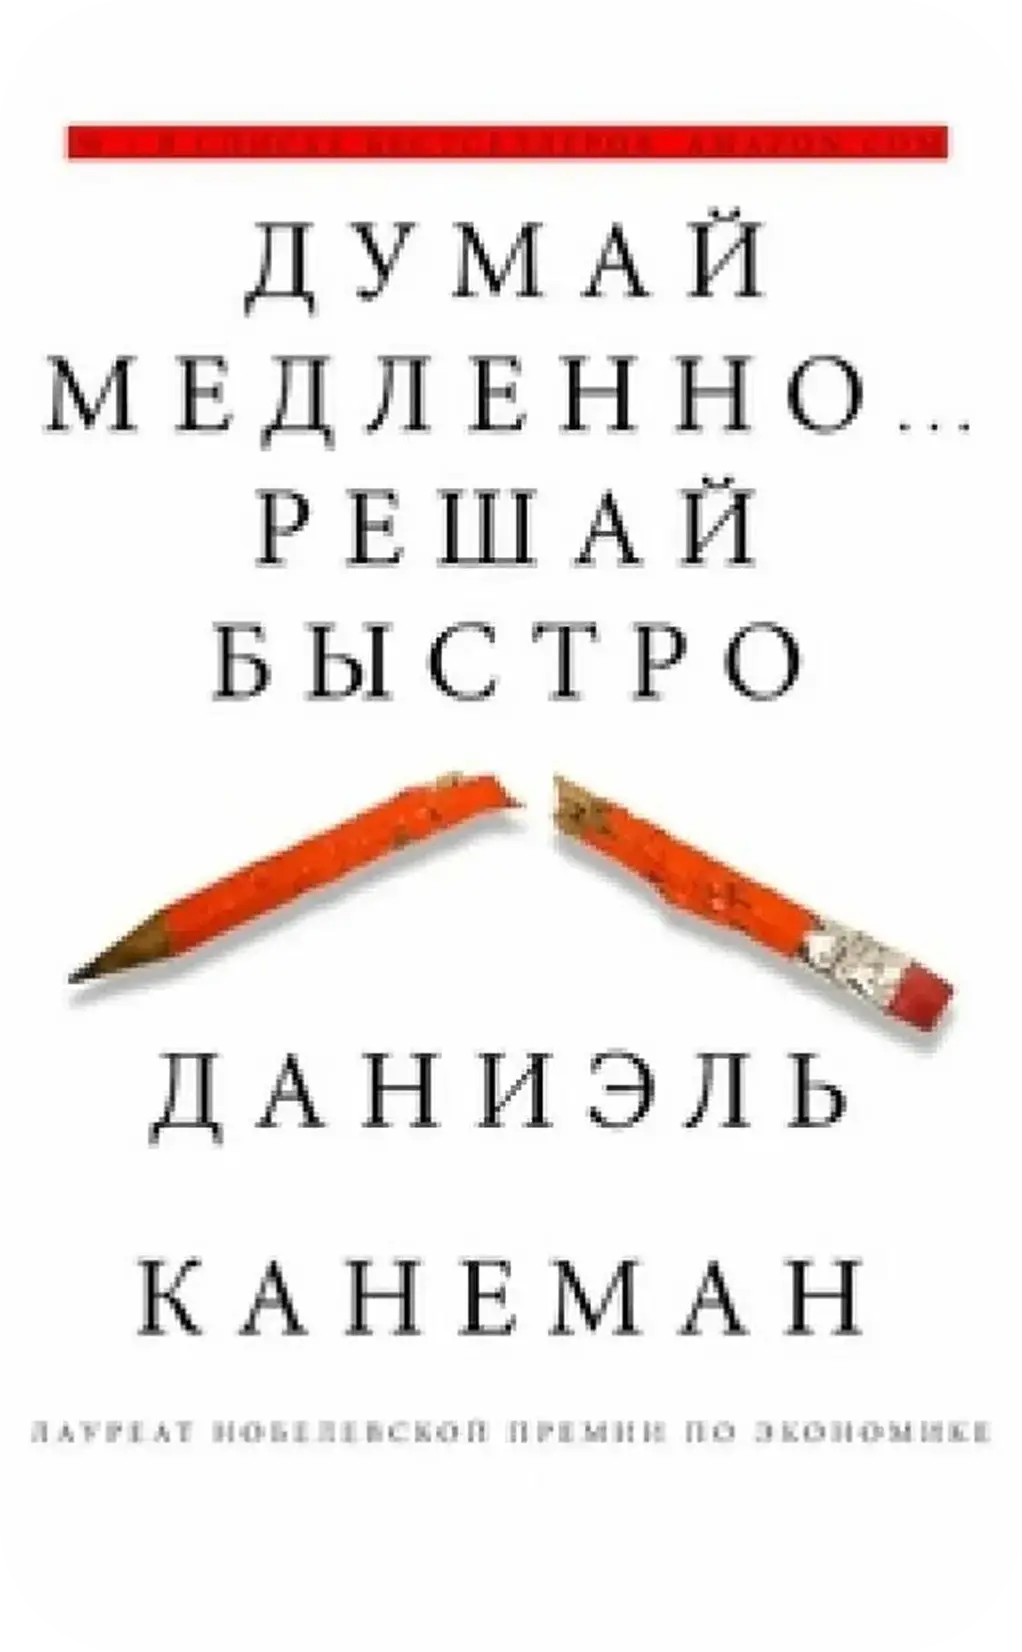
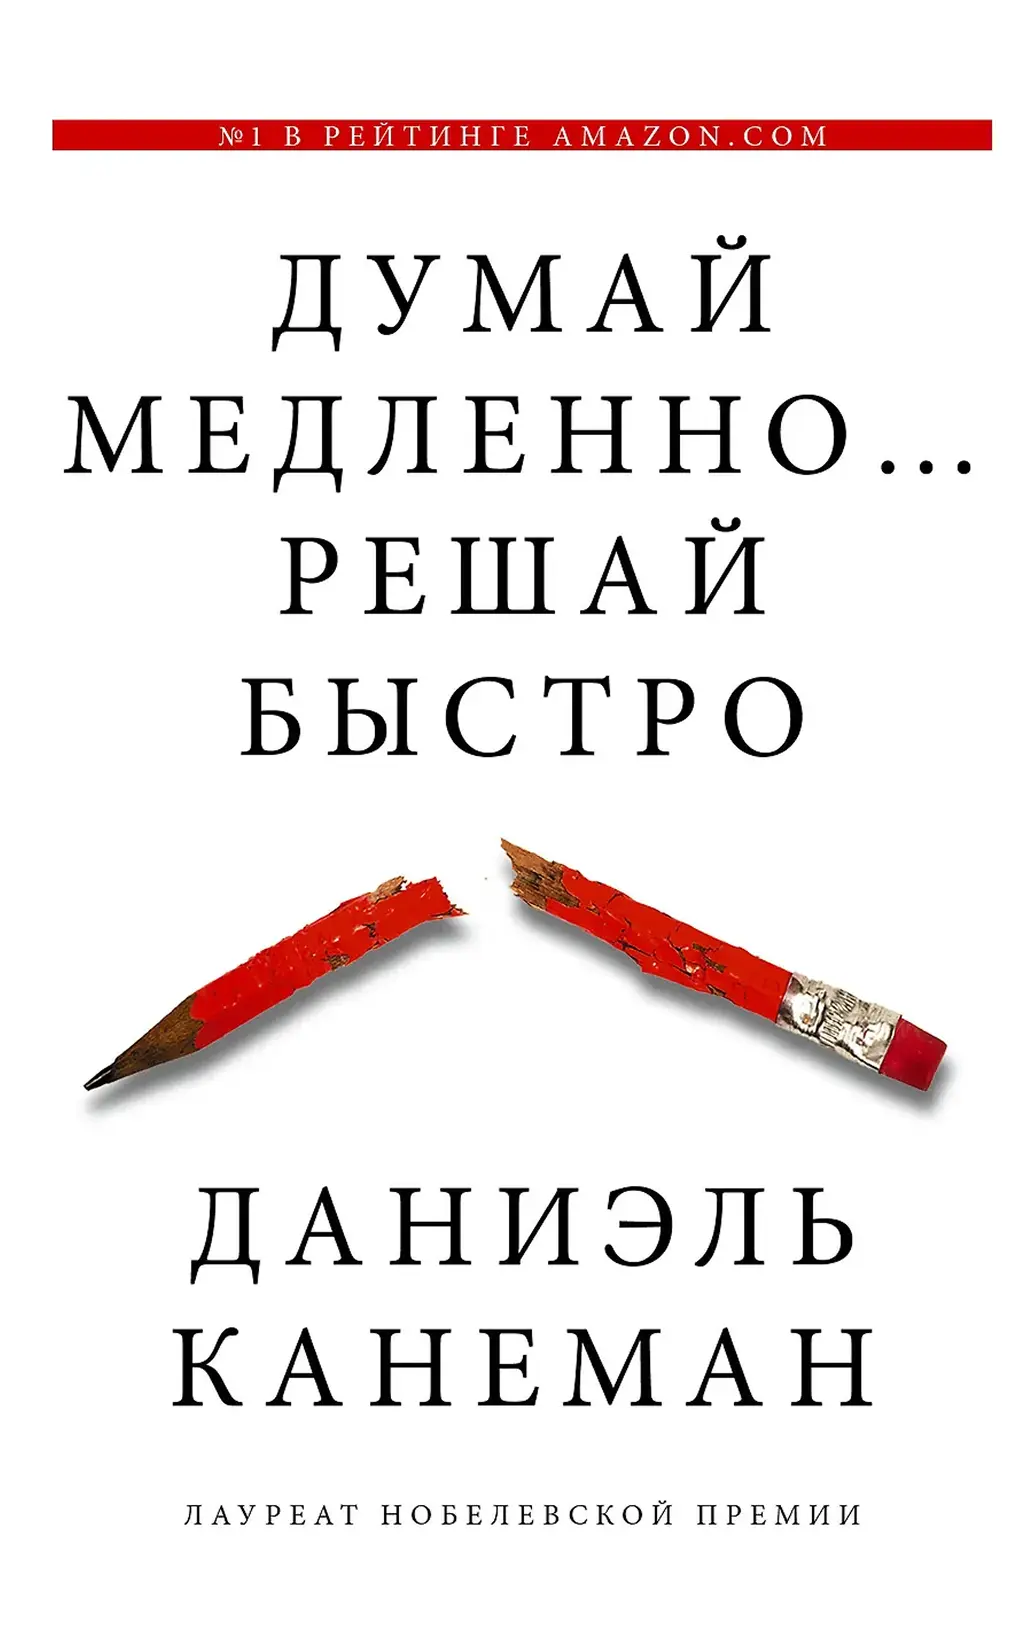
Add hobby section to hero, update book cover p2, narrow h1
- Updated book-p2.webp with new cover image
- Added PersPic photos (3 circular 56px portraits)
- Added hobby text + photos row to hero section before logos
- Narrowed .hero h1 with max-width: 680px
- Replaced hero-logos margin-top with margin-bottom on hobby block (32px spacing)

Changed region(s): [[0.0303, 0.0617, 0.9706, 0.9262], [0.8493, 0.2778, 0.8796, 0.3087]]

diff --git a/styles/layout.css b/styles/layout.css
@@ -50,13 +50,43 @@ nav {
   font-weight: 900;
   line-height: clamp(36px, 6.5vw, 76px);
   letter-spacing: -0.5px;
+  max-width: 680px;
+}
+
+.hero-hobby {
+  display: flex;
+  align-items: center;
+  gap: 16px;
+  margin-top: 24px;
+  margin-bottom: 32px;
+}
+
+.hero-hobby-text {
+  font-size: 16px;
+  font-weight: 400;
+  color: #717681;
+  line-height: 1.4;
+}
+
+.hero-hobby-photos {
+  display: flex;
+  gap: 4px;
+  flex-shrink: 0;
+}
+
+.hero-hobby-photo {
+  width: 56px;
+  height: 56px;
+  border-radius: 50%;
+  object-fit: cover;
+  flex-shrink: 0;
 }
 
 .hero-logos {
   display: flex;
   align-items: center;
   justify-content: space-between;
-  margin-top: 56px;
+  margin-top: 0;
 }
 
 .hero-logos-inner {
@@ -93,9 +123,17 @@ nav {
     font-size: 16px;
   }
 
+  .hero-hobby {
+    flex-direction: column;
+    align-items: flex-start;
+    gap: 12px;
+    margin-top: 16px;
+    margin-bottom: 24px;
+  }
+
   .hero-logos {
     overflow: hidden;
-    margin-top: 32px;
+    margin-top: 0;
     margin-left: calc(-1 * var(--side));
     margin-right: calc(-1 * var(--side));
     justify-content: flex-start;

diff --git a/index.html b/index.html
@@ -40,6 +40,14 @@
     <section class="hero">
       <h1>Дизайн-менеджер с&nbsp;9+&nbsp;лет опыта<br>в&nbsp;fintech и&nbsp;digital products</h1>
       <p class="hero-desc">Фокусируюсь на&nbsp;исследованиях, развитии CX и&nbsp;масштабировании дизайн-процессов. Внедряю AI для&nbsp;ускорения discovery, анализа и&nbsp;прототипирования продуктовых решений.</p>
+      <div class="hero-hobby">
+        <span class="hero-hobby-text">…а ещё занимаюсь шоссейным велоспортом и&nbsp;сноубордингом</span>
+        <div class="hero-hobby-photos">
+          <img src="images/PersPic1.webp" alt="" class="hero-hobby-photo">
+          <img src="images/PersPic2.webp" alt="" class="hero-hobby-photo">
+          <img src="images/PersPic3.webp" alt="" class="hero-hobby-photo">
+        </div>
+      </div>
       <div class="hero-logos">
         <div class="hero-logos-inner">
           <div class="hero-logos-track">
